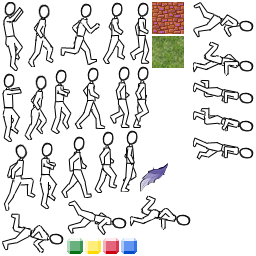
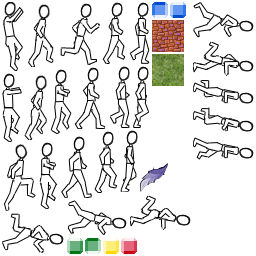
better buttons

Changed region(s): [[0.5938, 0.0, 0.75, 0.3438], [0.3125, 0.9062, 0.5625, 1.0]]

diff --git a/Wallter/GameplayScene/SimpleButton.m b/Wallter/GameplayScene/SimpleButton.m
@@ -11,10 +11,15 @@
 
 	id target;
 	SEL selector;
+	NSString *frame;
+	NSString *downFrame;
 }
 
--(id)init:(id) _target selector:(SEL)_selector {
-	sprite = [[CCSprite alloc] initWithSpriteFrameName:@"gem1.png"];
+-(id)init:(id) _target selector:(SEL)_selector frame:(NSString *)_frame downFrame:(NSString *)_downFrame {
+	frame = _frame;
+	downFrame = _downFrame;
+	
+	sprite = [[CCSprite alloc] initWithSpriteFrameName:frame];
 	[sprite setScale:8];
 
 	CGSize spriteSize = sprite.boundingBox.size;
@@ -36,7 +41,7 @@
 		return false;
 	}
 	
-	[sprite setDisplayFrame:[[CCSpriteFrameCache sharedSpriteFrameCache] spriteFrameByName:@"gem2.png"]];
+	[sprite setDisplayFrame:[[CCSpriteFrameCache sharedSpriteFrameCache] spriteFrameByName:downFrame]];
 	[target performSelector:selector];
 
 	return true;
@@ -52,7 +57,7 @@
 }
 
 - (void)ccTouchEnded:(UITouch *)touch withEvent:(UIEvent *)event {
-	[sprite setDisplayFrame:[[CCSpriteFrameCache sharedSpriteFrameCache] spriteFrameByName:@"gem1.png"]];
+	[sprite setDisplayFrame:[[CCSpriteFrameCache sharedSpriteFrameCache] spriteFrameByName:frame]];
 }
 
 - (void)registerWithTouchDispatcher {

diff --git a/Wallter/GameplayScene/RunningLayer.m b/Wallter/GameplayScene/RunningLayer.m
@@ -65,11 +65,11 @@
 
 	CGSize s = [self currentWindowSize];
 
-	SimpleButton *button = [[SimpleButton alloc] init:self selector:@selector(jump)];
+	SimpleButton *button = [[SimpleButton alloc] init:self selector:@selector(jump) frame:@"gem1.png" downFrame:@"gem1.down.png"];
 	[button setPosition:cgp(s.width - 80, 16)];
 	[self addChild:button];
 
-	SimpleButton *attackButton = [[SimpleButton alloc] init:self selector:@selector(attack)];
+	SimpleButton *attackButton = [[SimpleButton alloc] init:self selector:@selector(attack) frame:@"gem4.png" downFrame:@"gem4.down.png"];
 	[attackButton setPosition:cgp(s.width - 80*2, 16)];
 	[self addChild:attackButton];
 

diff --git a/Wallter/GameplayScene/SimpleButton.h b/Wallter/GameplayScene/SimpleButton.h
@@ -7,6 +7,8 @@
 #import "cocos2d.h"
 
 @interface SimpleButton : CCLayerColor
+- (id)init:(id)_target selector:(SEL)_selector frame:(NSString *)_frame downFrame:(NSString *)_downFrame;
+
 - (id)init:(id)_target selector:(SEL)_selector;
 
 @end
